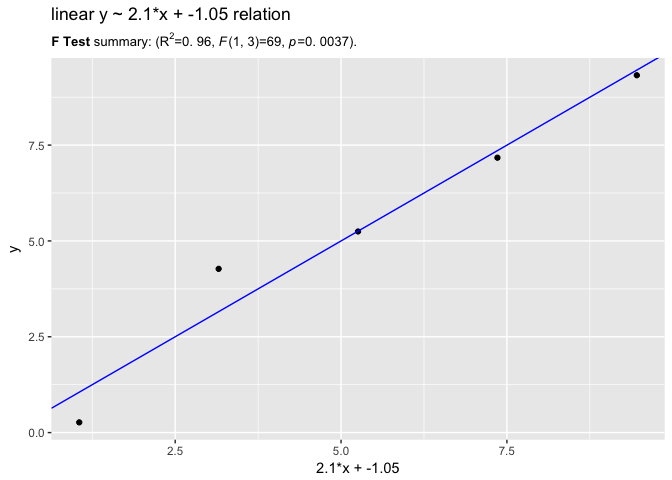
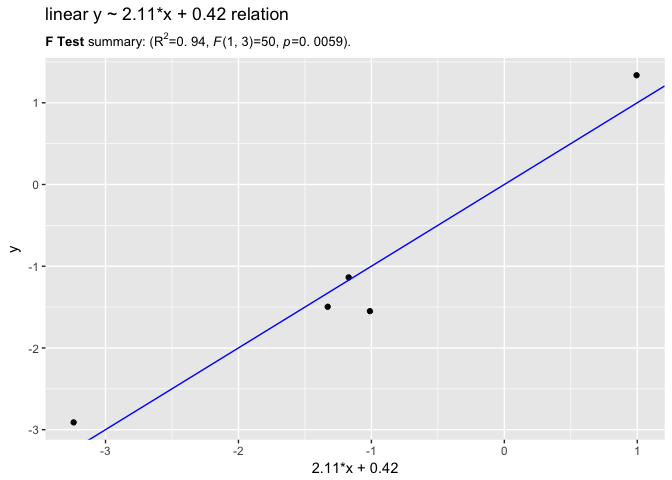
revise

diff --git a/sigr/example.md b/sigr/example.md
@@ -1,17 +1,17 @@
-[`sigr`](https://CRAN.R-project.org/package=sigr) is an [`R`](https://cran.r-project.org) package conveniently formats significance tests, allowing the analyst to use the correct test no matter what modeling package you use.
+[`sigr`](https://CRAN.R-project.org/package=sigr) is a simple [`R`](https://cran.r-project.org) package that conveniently formats a few statistics and their significance tests. This allows the analyst to use the correct test no matter what modeling package or procedure they use.
 
 ![](sigr.png)
 
 Model Example
 -------------
 
-For example, take the following linear relation between `x` and `y`:
+Let's take as our example the following linear relation between `x` and `y`:
 
 ``` r
 library('sigr')
-d <- data.frame(x=1:5)
 set.seed(353525)
-d$y <- 2*d$x + rnorm(nrow(d))
+d <- data.frame(x= rnorm(5))
+d$y <- 2*d$x + 0.5*rnorm(nrow(d))
 ```
 
 `stats::lm()` has among the most complete summaries of all models in `R`, so we easily get can see the quality of fit and its significance:
@@ -26,28 +26,30 @@ summary(model)
     ## lm(formula = y ~ x, data = d)
     ## 
     ## Residuals:
-    ##         1         2         3         4         5 
-    ## -0.786973  1.117243 -0.009319 -0.185198 -0.135753 
+    ##       1       2       3       4       5 
+    ##  0.3292  0.3421  0.0344 -0.1671 -0.5387 
     ## 
     ## Coefficients:
     ##             Estimate Std. Error t value Pr(>|t|)   
-    ## (Intercept)  -1.0473     0.8391  -1.248  0.30053   
-    ## x             2.1011     0.2530   8.304  0.00366 **
+    ## (Intercept)   0.4201     0.2933   1.432  0.24747   
+    ## x             2.1117     0.2996   7.048  0.00587 **
     ## ---
     ## Signif. codes:  0 '***' 0.001 '**' 0.01 '*' 0.05 '.' 0.1 ' ' 1
     ## 
-    ## Residual standard error: 0.8001 on 3 degrees of freedom
-    ## Multiple R-squared:  0.9583, Adjusted R-squared:  0.9444 
-    ## F-statistic: 68.96 on 1 and 3 DF,  p-value: 0.003659
+    ## Residual standard error: 0.4261 on 3 degrees of freedom
+    ## Multiple R-squared:  0.943,  Adjusted R-squared:  0.9241 
+    ## F-statistic: 49.67 on 1 and 3 DF,  p-value: 0.005871
 
 `sigr::wrapFTest()` can render the relevant model quality summary.
 
 ``` r
 cat(render(wrapFTest(model),
-    pSmallCutoff=0))
+    pLargeCutoff=1))
 ```
 
-**F Test** summary: (<i>R<sup>2</sup></i>=0.96, *F*(1,3)=69, *p*=0.0037).
+**F Test** summary: (<i>R<sup>2</sup></i>=0.94, *F*(1,3)=50, *p*=0.0059).
+
+Note: `sigr` reports the un-adjusted R-squared, as this is the one that significance is reported for in `summary::lm()`.
 
 `sigr` also carries around the important summary components for use in code.
 
@@ -65,46 +67,88 @@ unclass(wrapFTest(model))
     ## [1] 3
     ## 
     ## $FValue
-    ## [1] 68.96306
+    ## [1] 49.66886
     ## 
     ## $R2
-    ## [1] 0.9583119
+    ## [1] 0.9430403
     ## 
     ## $pValue
-    ## [1] 0.003658704
+    ## [1] 0.005871236
 
-In this function it is much like `broom` or `modelr`.
+In this function `sigr` is much like `broom::glance()` or `modelr::rsquare()`.
 
 ``` r
 broom::glance(model)
 ```
 
     ##   r.squared adj.r.squared     sigma statistic     p.value df    logLik
-    ## 1 0.9583119     0.9444159 0.8000775  68.96306 0.003658704  2 -4.702395
-    ##        AIC     BIC deviance df.residual
-    ## 1 15.40479 14.2331 1.920372           3
-
-``` r
-modelr::rmse(model, d)
-```
-
-    ## [1] 0.6197373
+    ## 1 0.9430403     0.9240538 0.4261232  49.66886 0.005871236  2 -1.552495
+    ##       AIC      BIC deviance df.residual
+    ## 1 9.10499 7.933304 0.544743           3
 
 ``` r
 modelr::rsquare(model, d)
 ```
 
-    ## [1] 0.9583119
+    ## [1] 0.9430403
+
+This is something like what is reported by `caret::train()` (where `caret` controls the model training process).
 
 ``` r
-#modelr::mae(model, d)
-#modelr::qae(model, d)
+cr <- caret::train(y~x, d, 
+                   method = 'lm')
 ```
+
+    ## Loading required package: lattice
+
+    ## Loading required package: ggplot2
+
+    ## Warning in nominalTrainWorkflow(x = x, y = y, wts = weights, info =
+    ## trainInfo, : There were missing values in resampled performance measures.
+
+``` r
+cr$results
+```
+
+    ##   intercept      RMSE  Rsquared    RMSESD   RsquaredSD
+    ## 1      TRUE 0.9631662 0.9998162 0.6239989 0.0007577834
+
+``` r
+summary(cr$finalModel)
+```
+
+    ## 
+    ## Call:
+    ## lm(formula = .outcome ~ ., data = dat)
+    ## 
+    ## Residuals:
+    ##      X1      X2      X3      X4      X5 
+    ##  0.3292  0.3421  0.0344 -0.1671 -0.5387 
+    ## 
+    ## Coefficients:
+    ##             Estimate Std. Error t value Pr(>|t|)   
+    ## (Intercept)   0.4201     0.2933   1.432  0.24747   
+    ## x             2.1117     0.2996   7.048  0.00587 **
+    ## ---
+    ## Signif. codes:  0 '***' 0.001 '**' 0.01 '*' 0.05 '.' 0.1 ' ' 1
+    ## 
+    ## Residual standard error: 0.4261 on 3 degrees of freedom
+    ## Multiple R-squared:  0.943,  Adjusted R-squared:  0.9241 
+    ## F-statistic: 49.67 on 1 and 3 DF,  p-value: 0.005871
+
+(I presume `cr$results$Rsquared` is a model quality report and not a consistency of cross-validation procedure report. If it is a model quality report it is somehow inflated, perhaps by the resampling procedure. So I apologize for using either `caret::train()` or its results incorrectly. I did read the manual and examples.)
 
 Data example
 ------------
 
+The issue of taking summary statistics (and significances) from models include:
+
+-   Working only from models limits you to models that include the statistic you want.
+-   Working only from models is mostly "in-sample." You need additional procedures for test or hold-out data.
+
 With `sigr` it is also easy to reconstruct quality and significance from the predictions, no matter where they came from (without needing the model data structures).
+
+### In-sample example
 
 ``` r
 d$pred <- predict(model, newdata = d)
@@ -112,12 +156,95 @@ d$pred <- predict(model, newdata = d)
 
 ``` r
 cat(render(wrapFTest(d, 'pred', 'y'),
-    pSmallCutoff=0))
+    pLargeCutoff=1))
 ```
 
-**F Test** summary: (<i>R<sup>2</sup></i>=0.96, *F*(1,3)=69, *p*=0.0037).
+**F Test** summary: (<i>R<sup>2</sup></i>=0.94, *F*(1,3)=50, *p*=0.0059).
 
-Notice we reconstruct the summary statistic and significance, independent of the model data structures. This means the test is generic and can be used on any regression (modulo informing the significance model of the appropriate number of parameters).
+In this mode it is a lot like `ModelMetrics::rmse()` or `caret::postResample()`.
+
+``` r
+ModelMetrics::rmse(d$y, d$pred)
+```
+
+    ## [1] 0.3300736
+
+``` r
+caret::postResample(d$y, d$pred)
+```
+
+    ##      RMSE  Rsquared 
+    ## 0.3300736 0.9430403
+
+Notice we reconstruct the summary statistic and significance, independent of the model data structures. This means the test is generic and can be used on any regression (modulo informing the significance model of the appropriate number of parameters). And also can be used on held-out or test data.
+
+### Out of sample example
+
+If we had more data we can look at the quality of the prediction on that data (though you have to take care in understanding the number of degrees of freedom is different for held-out data).
+
+``` r
+d2 <- data.frame(x= rnorm(5))
+d2$y <- 2*d2$x + 0.5*rnorm(nrow(d2))
+d2$pred <-  predict(model, newdata = d2)
+```
+
+``` r
+cat(render(wrapFTest(d2, 'pred', 'y'),
+    pLargeCutoff=1))
+```
+
+**F Test** summary: (<i>R<sup>2</sup></i>=0.76, *F*(1,3)=9.6, *p*=0.054).
+
+### Exotic model example
+
+We could have used `glmnet` instead of `lm`:
+
+``` r
+library("glmnet")
+```
+
+    ## Loading required package: Matrix
+
+    ## Loading required package: foreach
+
+    ## Loaded glmnet 2.0-5
+
+``` r
+d$one <- 1 # make sure we have at least 2 columns
+xmat <- as.matrix(d[, c('one','x')])
+glmnetModel <- cv.glmnet(xmat, d$y)
+```
+
+    ## Warning: Option grouped=FALSE enforced in cv.glmnet, since < 3 observations
+    ## per fold
+
+``` r
+summary(glmnetModel)
+```
+
+    ##            Length Class  Mode     
+    ## lambda     53     -none- numeric  
+    ## cvm        53     -none- numeric  
+    ## cvsd       53     -none- numeric  
+    ## cvup       53     -none- numeric  
+    ## cvlo       53     -none- numeric  
+    ## nzero      53     -none- numeric  
+    ## name        1     -none- character
+    ## glmnet.fit 12     elnet  list     
+    ## lambda.min  1     -none- numeric  
+    ## lambda.1se  1     -none- numeric
+
+``` r
+d$predg <- as.numeric(predict(glmnetModel, 
+                              newx= xmat))
+```
+
+``` r
+cat(render(wrapFTest(d, 'predg', 'y'),
+    pLargeCutoff=1))
+```
+
+**F Test** summary: (<i>R<sup>2</sup></i>=0.91, *F*(1,3)=30, *p*=0.012).
 
 Plotting
 --------
@@ -143,3 +270,8 @@ ggplot(data=d, mapping=aes(x=pred, y=y)) +
 ```
 
 ![](example_files/figure-markdown_github/plot-1.png)
+
+Conclusion
+----------
+
+`sigr` computes a few statistics or summaries (with standard significance estimates) and returns the calculation in both machine readable and formatted forms. For non-standard summaries `sigr` includes some resampling methods for significance estimation. For formatting `sigr` tries to get near the formats specified by "The American Psychological Association." `sigr` works with models (such as `lm` and `glm(family='binomial')`) or data, and is a small package with few dependencies.
